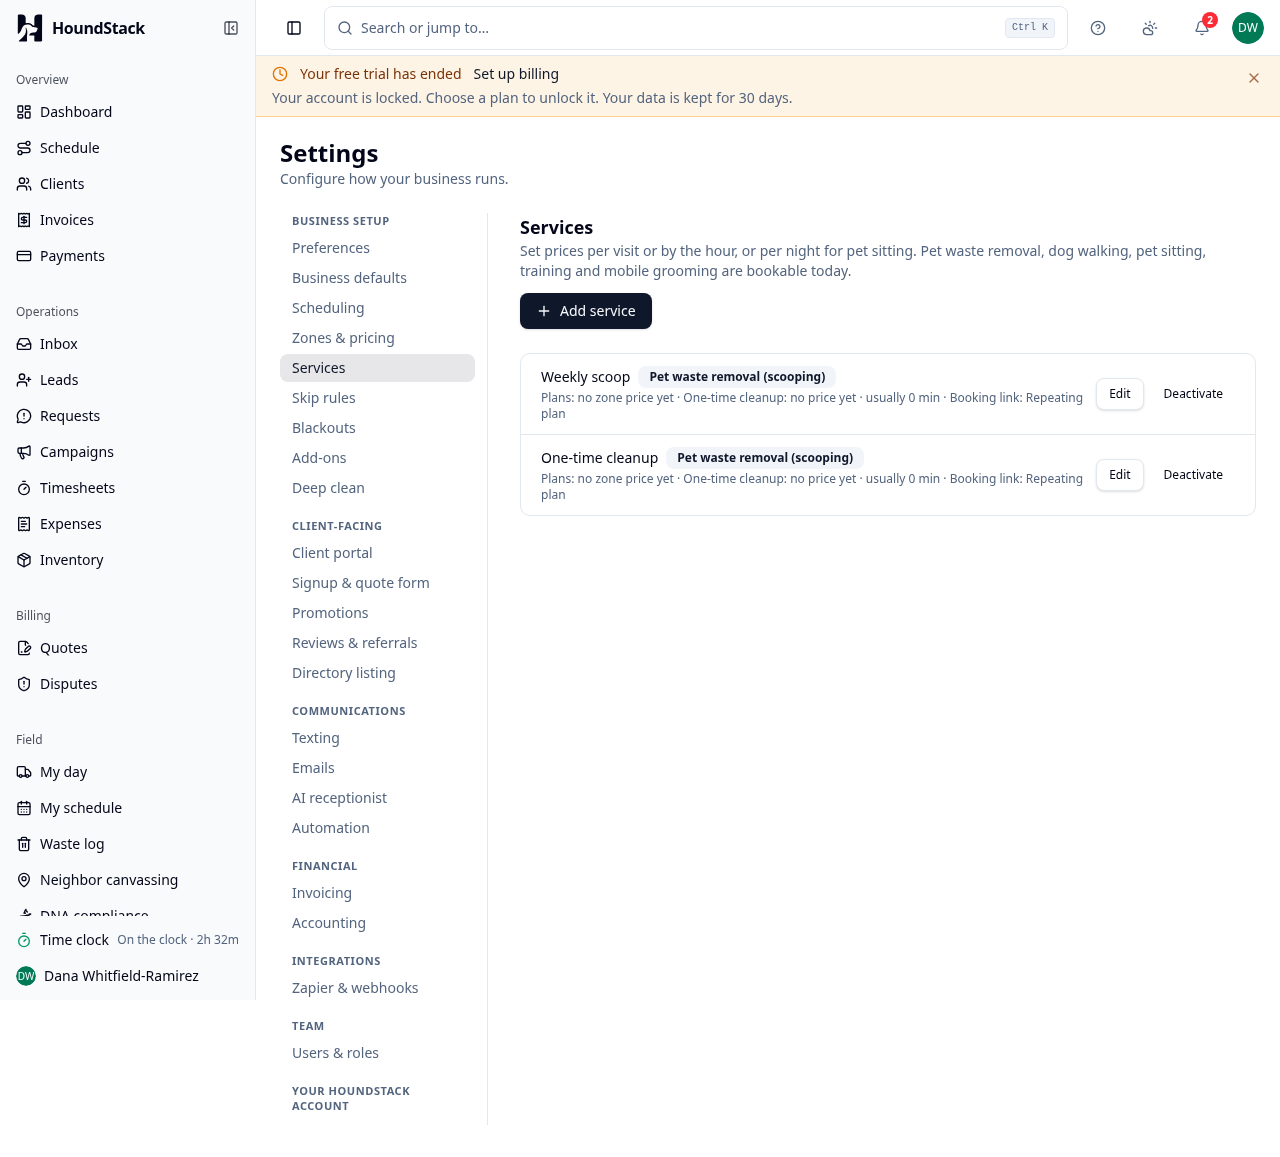
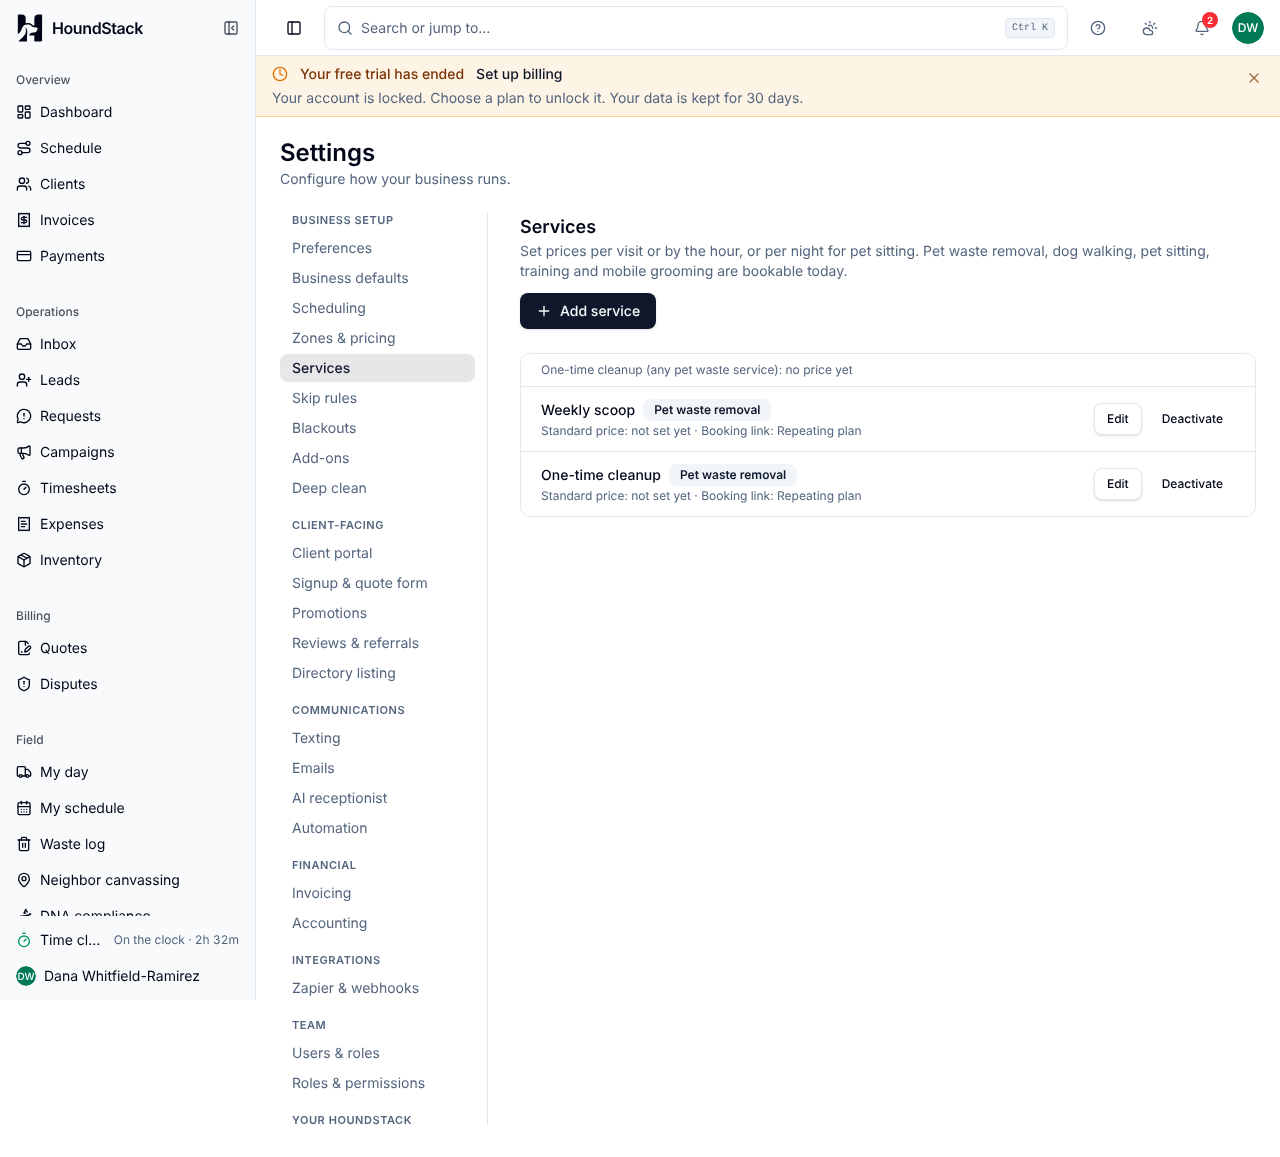
Rename Poop scooping to Pet waste removal everywhere (#883) (#935)
The pet_waste line had three default names: "Poop scooping" on the
directory and /pros (DIRECTORY_LINE_LABEL), "Pet waste removal
(scooping)" in setup and Settings pickers (SERVICE_LINE_LABEL), and
"Pet waste removal" for the seeded service. Both labels are now
"Pet waste removal", so a directory quote reads "Asked about: Pet
waste removal." too. Copy only: no migration, no owner-typed service
name (such as "Weekly scoop") is touched.

Tests asserting the old text are updated. The replaces-the-default
viewport spec now looks for the starter by its row name, since every
pet-waste row's line badge now reads the same words.

Screenshots at 390/768/1280 in .helm/screenshots/issue-883/.

Claude-Session: https://claude.ai/code/session_015ykkixL9UAFMA69p6ob9CP

diff --git a/tests/viewports/every-signed-in-page-when-an-owner-replaces-the-default.spec.ts b/tests/viewports/every-signed-in-page-when-an-owner-replaces-the-default.spec.ts
@@ -28,7 +28,13 @@ for (const width of [390, 768, 1280]) {
     });
     await page.goto("/settings/services");
     const list = page.getByTestId("services-list");
-    await expect(list.getByText("Pet waste removal", { exact: true })).toBeVisible({
+    // The row's NAME, not its line badge: since #883 the pet_waste line is
+    // also called "Pet waste removal", so every pet-waste row's badge reads
+    // the same words as the starter's name.
+    const starter = list.locator(":scope > li span.font-medium", {
+      hasText: /^Pet waste removal$/,
+    });
+    await expect(starter).toBeVisible({
       timeout: 120_000,
     });
     for (const name of ["Weekly scoop", "One-time cleanup"]) {
@@ -38,7 +44,7 @@ for (const width of [390, 768, 1280]) {
       await dialog.getByRole("button", { name: "Add service", exact: true }).click();
       await expect(dialog).toBeHidden();
       await expect(list.getByText(name, { exact: true })).toBeVisible();
-      await expect(list.getByText("Pet waste removal", { exact: true })).toHaveCount(0);
+      await expect(starter).toHaveCount(0);
     }
     await expect(list.locator(":scope > li")).toHaveCount(2);
     expect(await page.evaluate(() => document.documentElement.scrollWidth)).toBeLessThanOrEqual(

diff --git a/tests/a-directory-quote-is-one-lead.test.ts b/tests/a-directory-quote-is-one-lead.test.ts
@@ -235,7 +235,7 @@ describe("a directory quote, through the shipped endpoint", () => {
       source: "directory",
       status: "new",
     });
-    expect(h.leads[0].message).toContain("Asked about: Poop scooping.");
+    expect(h.leads[0].message).toContain("Asked about: Pet waste removal.");
     expect(h.leads[0].message).toContain("Weekly, starting next month.");
     expect(h.leads[0]).not.toHaveProperty("directory_slug");
     expect(h.leads[0]).not.toHaveProperty("website_url");
@@ -523,7 +523,7 @@ describe("Convert to client, on the lead the directory wrote", () => {
     expect(prefill.primaryPhone).toBe("313-555-0100");
     expect(prefill.postalCode).toBe("48201");
     expect(prefill.dogs).toHaveLength(2);
-    expect(prefill.officeNote).toContain("Asked about: Poop scooping.");
+    expect(prefill.officeNote).toContain("Asked about: Pet waste removal.");
     expect(leadOriginLabel("directory", null)).toBe("Quote request from the HoundStack directory");
   });
 });

diff --git a/tests/viewports/a-walk-is-not-asked-about-waste.spec.ts b/tests/viewports/a-walk-is-not-asked-about-waste.spec.ts
@@ -153,13 +153,11 @@ for (const { w, h } of WIDTHS) {
       await page.getByRole("button", { name: "Edit checklist" }).click({ timeout: 45_000 });
 
       await expect(page.getByRole("heading", { name: "Every visit" })).toBeVisible();
-      await expect(
-        page.getByRole("heading", { name: "Pet waste removal (scooping)" }),
-      ).toBeVisible();
+      await expect(page.getByRole("heading", { name: "Pet waste removal" })).toBeVisible();
       await expect(page.getByRole("heading", { name: "Dog walking" })).toBeVisible();
       await expect(page.getByText("Asked on dog walking visits only.")).toBeVisible();
       await expect(page.getByRole("combobox", { name: `Which visits ask ${WASTE}` })).toHaveText(
-        "Pet waste removal (scooping)",
+        "Pet waste removal",
       );
       await expect(page.getByRole("textbox", { name: "Checklist item 1" })).toHaveValue(EVERY);
       // Nothing about waste is on every visit, so nothing to call out.

diff --git a/tests/what-onboarding-saves-settings-shows.test.ts b/tests/what-onboarding-saves-settings-shows.test.ts
@@ -349,7 +349,7 @@ describe("Setup → Settings", () => {
     const services = (await call(listServices, {})).services;
     expect(services).toHaveLength(1);
     expect(services[0].name).toBe("Pet waste removal");
-    expect(directoryLineLabel("pet_waste")).toBe("Poop scooping");
+    expect(directoryLineLabel("pet_waste")).toBe("Pet waste removal");
     expect(defaultServiceSeedsFor(["pet_waste"]).map((s) => s.name)).toEqual([services[0].name]);
   });
 

diff --git a/tests/viewports/a-business-that-does-not-scoop.spec.ts b/tests/viewports/a-business-that-does-not-scoop.spec.ts
@@ -114,7 +114,7 @@ async function expectServiceLineChoices(page: Page) {
   await expect(walking).toBeChecked();
   await expect(page.locator("li").filter({ has: walking }).getByText("Coming soon")).toHaveCount(0);
   const petWaste = page.getByRole("checkbox", {
-    name: "Pet waste removal (scooping)",
+    name: "Pet waste removal",
     exact: true,
   });
   await expect(petWaste).not.toBeChecked();

diff --git a/src/lib/directory.ts b/src/lib/directory.ts
@@ -26,7 +26,7 @@ export type DirectorySearchLine = (typeof DIRECTORY_SEARCH_LINES)[number];
 
 /** What a visitor calls each line. Plainer than Settings' labels. */
 export const DIRECTORY_LINE_LABEL: Record<DirectorySearchLine, string> = {
-  pet_waste: "Poop scooping",
+  pet_waste: "Pet waste removal",
   dog_walking: "Dog walking",
   pet_sitting: "Pet sitting",
   mobile_grooming: "Mobile grooming",

diff --git a/tests/e2e/a-quote-from-mypets-lands-in-the-test-org.spec.ts b/tests/e2e/a-quote-from-mypets-lands-in-the-test-org.spec.ts
@@ -148,7 +148,7 @@ test("a quote from mypets.services is one directory lead on the test org", async
       email,
       phone: "",
       location: SERVED,
-      message: "Asked about: Poop scooping.\n\nSent from mypets.services.",
+      message: "Asked about: Pet waste removal.\n\nSent from mypets.services.",
       source: "directory",
       website_url: "",
       elapsed_ms: 4_000,

diff --git a/src/lib/service-lines.ts b/src/lib/service-lines.ts
@@ -165,7 +165,7 @@ export function customerCanRequestStay(availability: ServiceLineAvailability): b
 }
 
 export const SERVICE_LINE_LABEL: Record<ServiceLine, string> = {
-  pet_waste: "Pet waste removal (scooping)",
+  pet_waste: "Pet waste removal",
   dog_walking: "Dog walking",
   pet_sitting: "Pet sitting",
   mobile_grooming: "Mobile grooming",

diff --git a/tests/e2e/a-directory-quote-becomes-a-client.spec.ts b/tests/e2e/a-directory-quote-becomes-a-client.spec.ts
@@ -88,7 +88,7 @@ test("a directory quote is one lead, and Convert to client opens on it", async (
       email,
       phone: "",
       location: ZIP,
-      message: "Asked about: Poop scooping.",
+      message: "Asked about: Pet waste removal.",
       source: "directory",
       website_url: "",
       elapsed_ms: 20_000,
